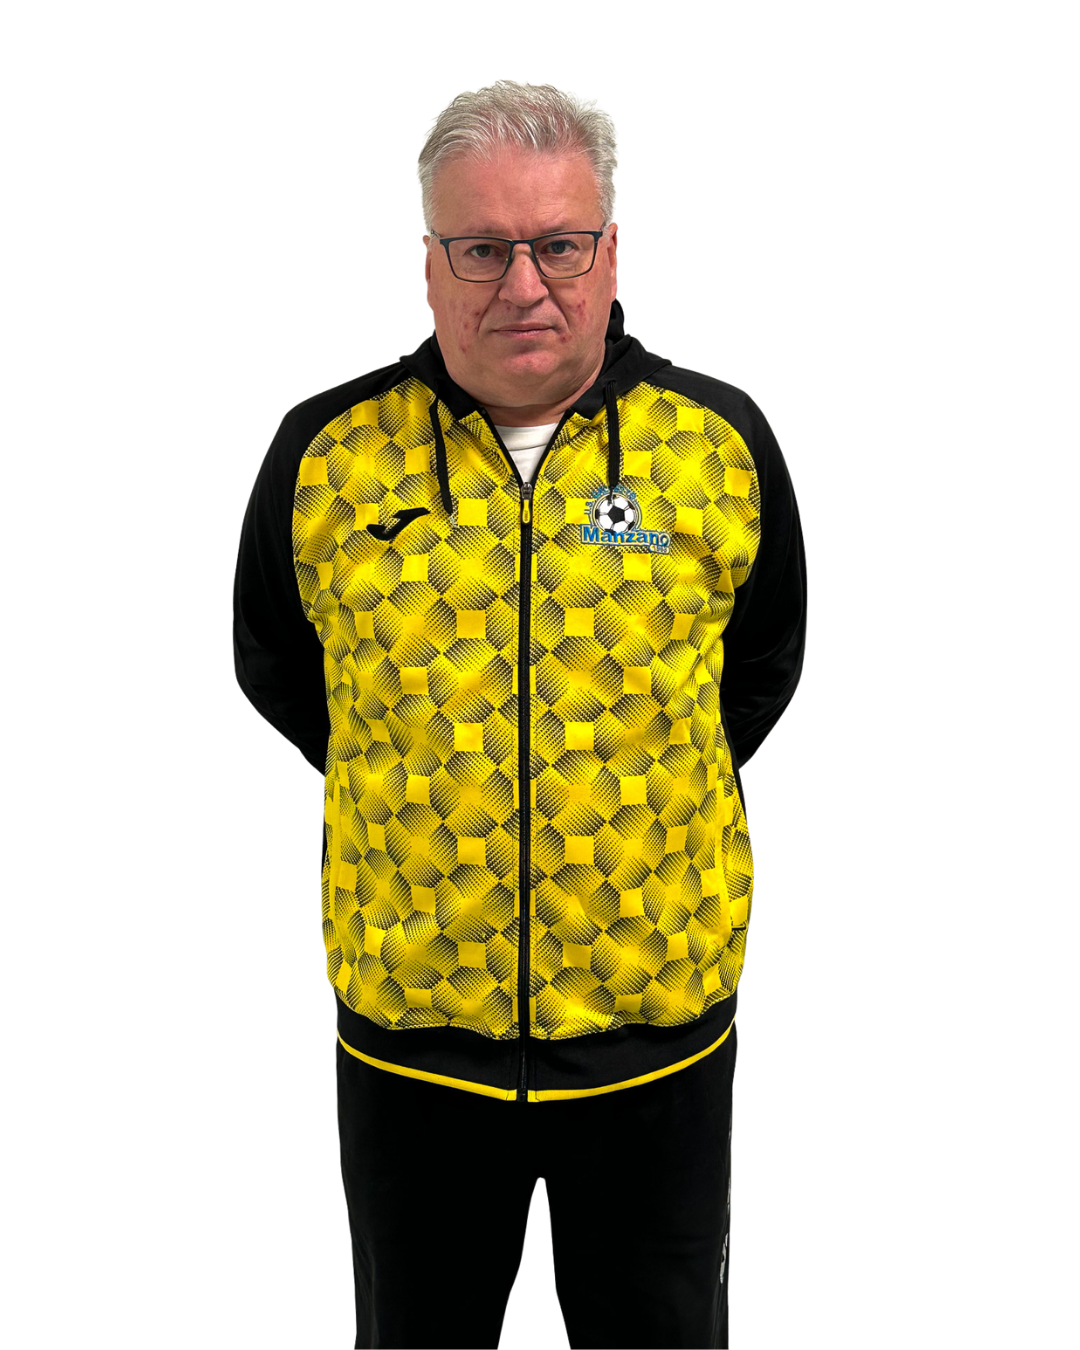
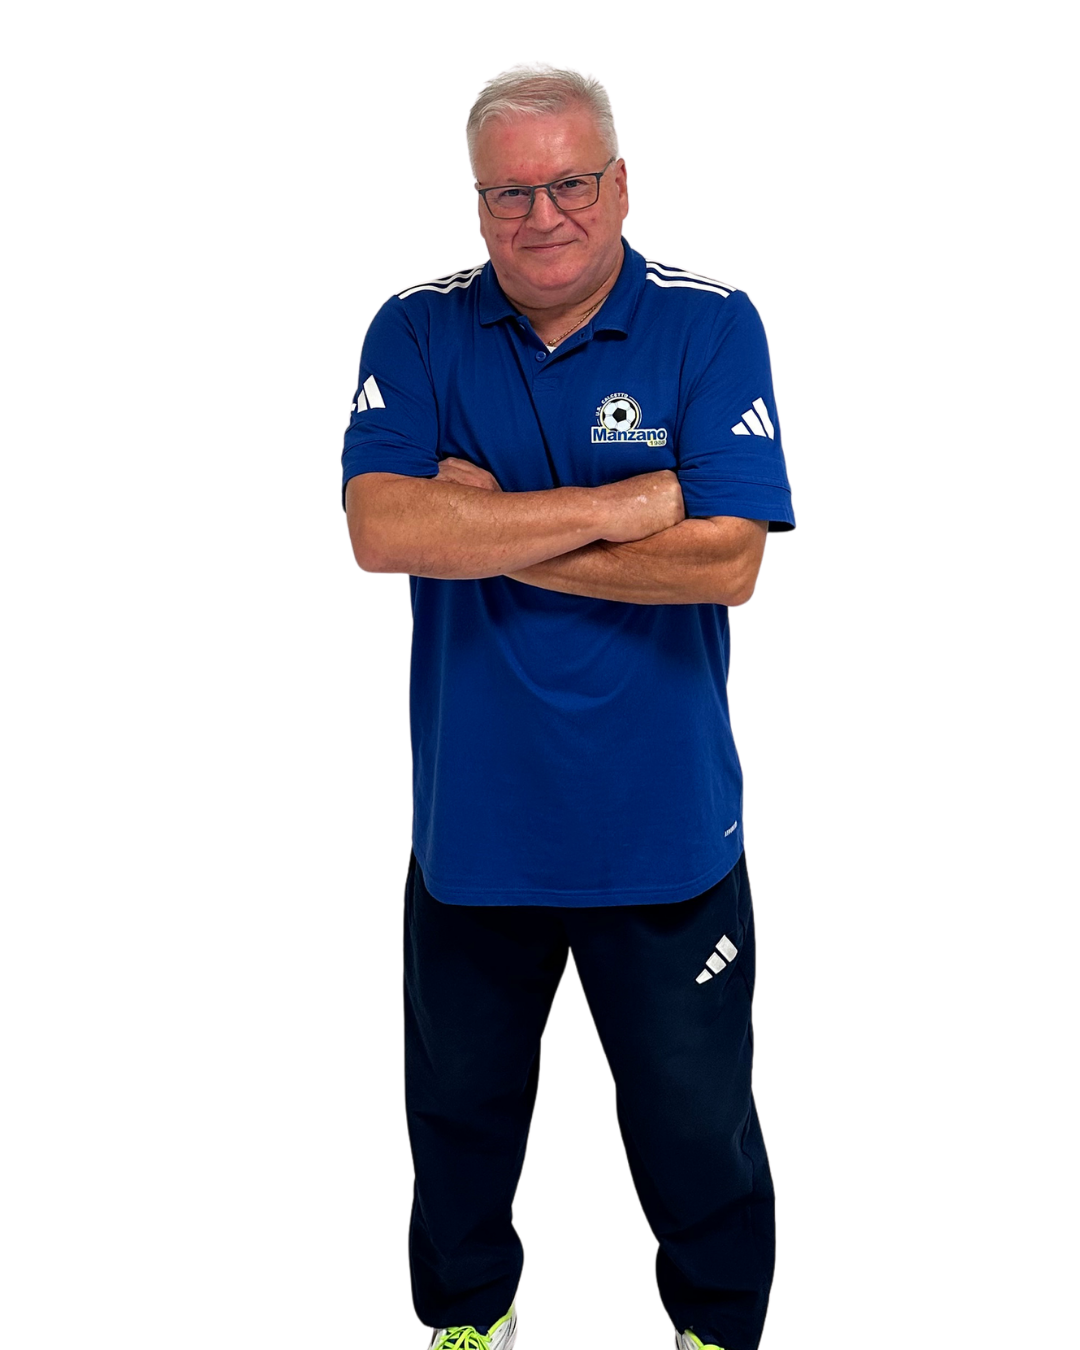
Aggiorna il ritratto di Alessandro Movio con Movionew

diff --git a/prima-squadra.html b/prima-squadra.html
@@ -138,7 +138,7 @@
 					<section class="squad-staff" aria-labelledby="staff-title">
 						<h2 id="staff-title">Staff tecnico</h2>
 						<div class="squad-staff-grid">
-<article class="squad-player squad-staff-card"><div class="squad-portrait"><img src="images/rosa/staff-movio.png" alt="Ritratto di Alessandro Movio" width="1080" height="1350" loading="lazy" decoding="async" style="--portrait-width:135.00000%;--portrait-left:-2.81250%;--portrait-offset:-5.92593%" /></div><h3><span class="squad-first-name">Alessandro</span> <span class="squad-last-name">Movio</span></h3><p class="squad-role">Allenatore</p></article>
+<article class="squad-player squad-staff-card"><div class="squad-portrait"><img src="images/rosa/staff-movio.png" alt="Ritratto di Alessandro Movio" width="1080" height="1350" loading="lazy" decoding="async" style="--portrait-width:172.80000%;--portrait-left:-25.60000%;--portrait-offset:-4.88889%" /></div><h3><span class="squad-first-name">Alessandro</span> <span class="squad-last-name">Movio</span></h3><p class="squad-role">Allenatore</p></article>
 <article class="squad-player squad-staff-card"><div class="squad-portrait"><img src="images/rosa/staff-sironi.png" alt="Ritratto di Andrea Sironi" width="1080" height="1350" loading="lazy" decoding="async" style="--portrait-width:138.60963%;--portrait-left:-4.35294%;--portrait-offset:-5.62963%" /></div><h3><span class="squad-first-name">Andrea</span> <span class="squad-last-name">Sironi</span></h3><p class="squad-role">Direttore tecnico</p></article>
 <article class="squad-player squad-staff-card"><div class="squad-portrait"><img src="images/rosa/staff-lavaroni.png" alt="Ritratto di Patrick Lavaroni" width="1080" height="1350" loading="lazy" decoding="async" style="--portrait-width:115.71429%;--portrait-left:2.80357%;--portrait-offset:-2.51852%" /></div><h3><span class="squad-first-name">Patrick</span> <span class="squad-last-name">Lavaroni</span></h3><p class="squad-role">Dirigente accompagnatore</p></article>
 <article class="squad-player squad-staff-card"><div class="squad-portrait"><img src="images/rosa/staff-nadalutti.png" alt="Ritratto di Dino Nadalutti" width="1080" height="1350" loading="lazy" decoding="async" style="--portrait-width:116.75676%;--portrait-left:4.81081%;--portrait-offset:-6.29630%" /></div><h3><span class="squad-first-name">Dino</span> <span class="squad-last-name">Nadalutti</span></h3><p class="squad-role">Dirigente addetto arbitri</p></article>
